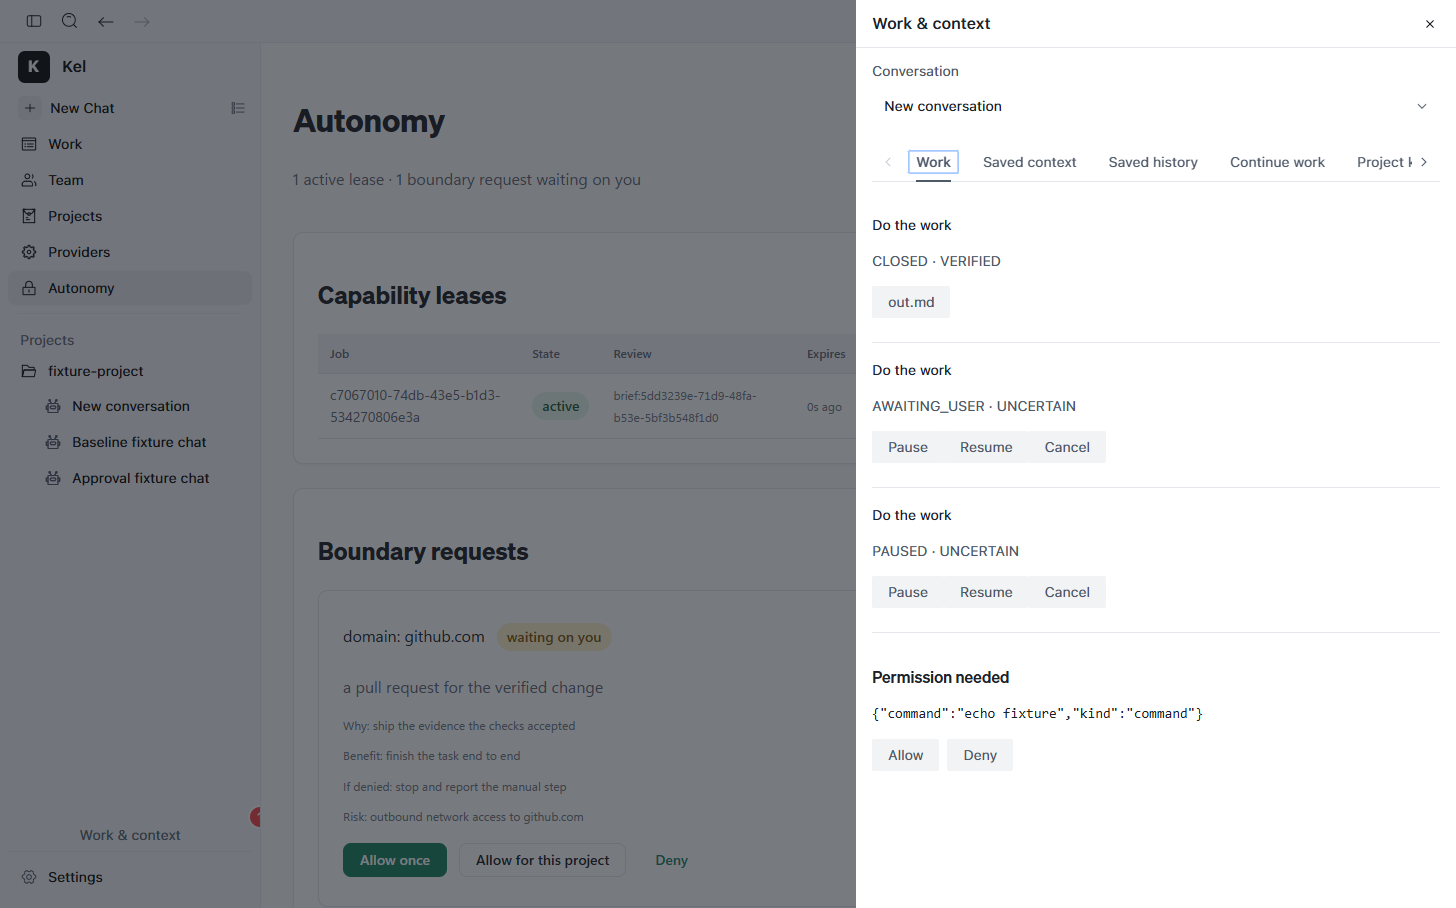
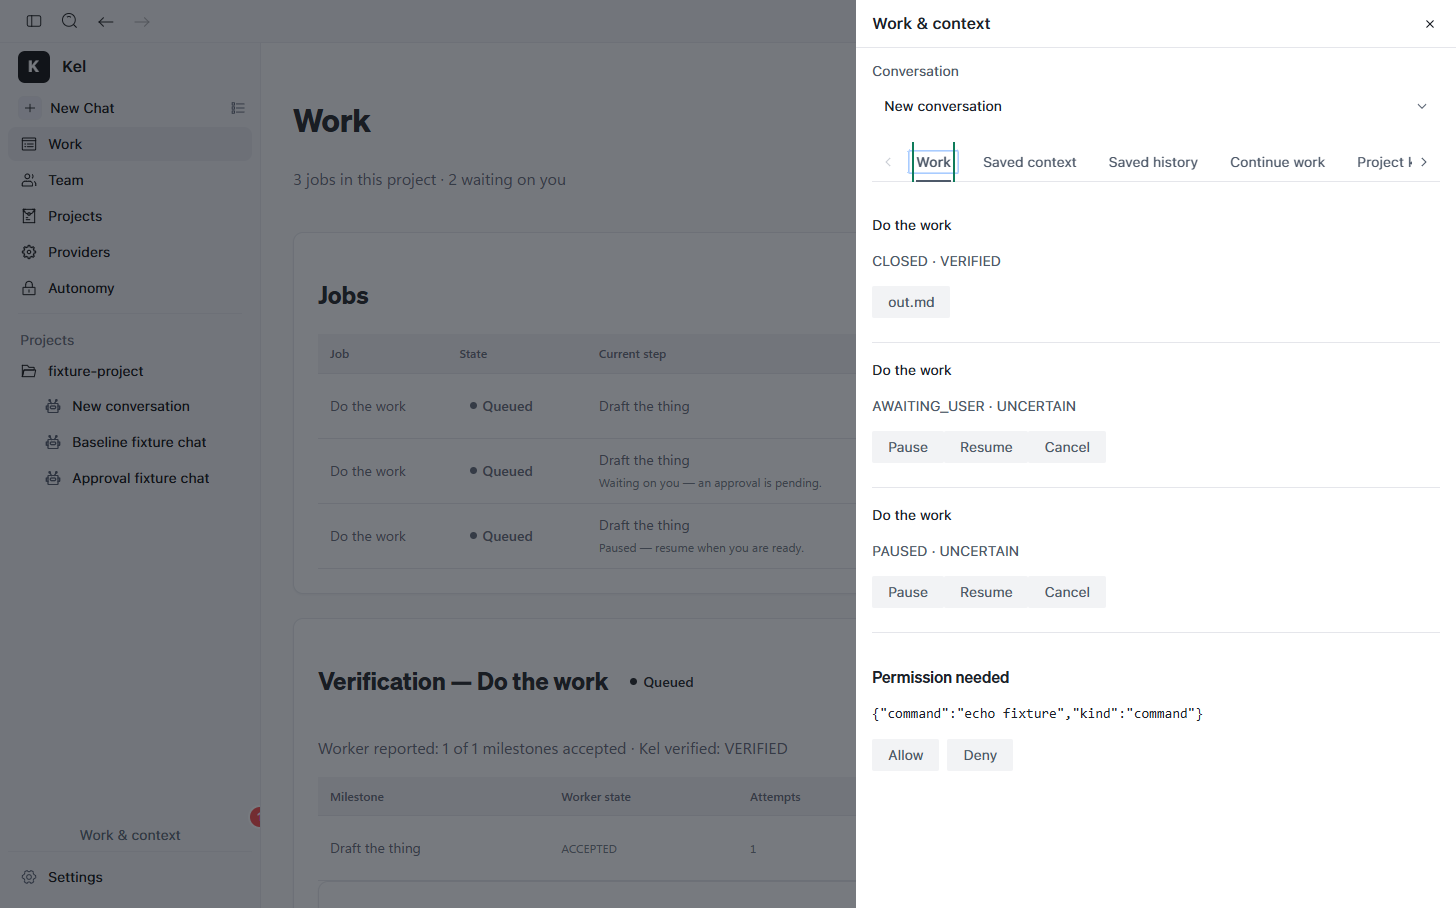
feat(v1.4-gate7-wip2): shell focus ring (0/30 -> 30/30 tab stops with a visible ring) + global Kel token load + shell skip link and content target; probe resets focus before the tab pass

diff --git a/desktop/packages/desktop/src/renderer/components/layout/Layout.tsx b/desktop/packages/desktop/src/renderer/components/layout/Layout.tsx
@@ -374,6 +374,10 @@ const Layout: React.FC<{
     <LayoutContext.Provider value={{ isMobile, siderCollapsed: collapsed, setSiderCollapsed: setCollapsed }}>
       <NavigationHistoryProvider>
         <div className='app-shell flex flex-col size-full min-h-0'>
+          {/* Kel V1.4: the shell's first tab stop — jumps past the sider to the routed content. */}
+          <a className='kel-skip' href='#kel-shell-content'>
+            Skip to main content
+          </a>
           <Titlebar workspaceAvailable={workspaceAvailable} />
           {/* 移动端左侧边栏蒙板 / Mobile left sider backdrop */}
           {isMobile && !collapsed && (
@@ -477,6 +481,8 @@ const Layout: React.FC<{
                 per-conversation subtree → persists across same-project switches. */}
             <div ref={mainRowRef} className='flex flex-1 min-h-0 overflow-hidden'>
               <ArcoLayout.Content
+                id='kel-shell-content'
+                tabIndex={-1}
                 className={'bg-1 layout-content flex flex-col min-h-0 flex-1'}
                 onClick={() => {
                   if (isMobile && !collapsed) setCollapsed(true);

diff --git a/desktop/packages/desktop/src/renderer/styles/kel-tokens.css b/desktop/packages/desktop/src/renderer/styles/kel-tokens.css
@@ -343,6 +343,12 @@
   outline: 2px solid var(--kel-accent);
   outline-offset: 2px;
 }
+/* Kel V1.4 shell focus ring: the V1.3 audit measured 0 of 30 tab stops with a detectable ring.
+   `:where()` keeps specificity at zero; `!important` is required to beat the donor's outline reset. */
+:where(a, button, [role='button'], input, select, textarea, [tabindex]:not([tabindex='-1'])):focus-visible {
+  outline: 2px solid var(--kel-accent) !important;
+  outline-offset: 2px !important;
+}
 @media (prefers-contrast: more) {
   .kel-scope {
     --kel-border: var(--kel-border-strong);

diff --git a/desktop/packages/desktop/src/renderer/main.tsx b/desktop/packages/desktop/src/renderer/main.tsx
@@ -76,6 +76,9 @@ import { useTranslation } from 'react-i18next';
 // Styles
 import 'uno.css';
 import './styles/arco-override.css';
+// Kel V1.4 design tokens (.kel-* + the shell focus ring and skip link) are global: donor and Kel
+// surfaces must share one token source, not two.
+import './styles/kel-tokens.css';
 import './styles/themes/index.css';
 import './styles/markdown.css';
 import { loadKelFonts } from './utils/theme/kelFonts';

diff --git a/docs/v1.4/KEL_V1.4_STATUS.md b/docs/v1.4/KEL_V1.4_STATUS.md
@@ -14,7 +14,7 @@ Rule: no V1.5 work. Partial completion is reported honestly; the feature ledger 
 | G4 — Team Office / Roster / Studio + Work Center | **COMPLETE** | implemented + routed + rendered from a packaged candidate: 49 captures, 0 errors, 0 blank, 20 route views across five widths; `/team/*` deep links fixed; table-header contrast fixed (4.35 → ≥6:1); asar dedup parity + engine PYZ OK. Notes: donor sidebar label contrast and engine shutdown → G7/G10 |
 | G5 — verification / continuation / memory / recipes UX | **COMPLETE** | Projects workspace (Knowledge · Map · Recipes) + Work Center verification panel + continuation chooser + end-to-end receipt + recipe dry-run; real-click round-trip verified (`verify-actions.cjs`: memory confirmation changed engine state; `ok: true`, clean close). In-gate fixes: `/team/*` deep links, table-header contrast, verified-fixture conversation scoping, map action vocabulary (`build` → `refresh`). Captures `g5`/`g5b`/`g5c`/`g5d` + actions evidence: 0 renderer errors, 0 blank |
 | G6 — providers / credentials / autonomy | **COMPLETE** | engine: `kel/providers.py` (migration 007 — registry, capability matrix, eight states incl. quota-not-reported, readiness with recorded fallback reason, credential metadata only) + `kel/autonomy.py` (migration 008 — leases with per-kind scope, locked kinds never allowed, frozen/system denial, snapshot rule, expiry/revocation, ask-once + project grants, guardrail tamper detection, emergency stop) + `/api/providers` + `/api/autonomy`; 50 new tests (suite **346 + 10**). Shell: `kelCredentials.ts` (safeStorage/DPAPI) + `kel:credential` IPC with **no value getter**. UI: `/providers` + `/autonomy` rendered (tags `g6`/`g6b`, 0 errors, 0 blank, route contrast 0/0) and credential custody proven end-to-end (`verify-credentials.cjs` exit 0: ciphertext-only on disk, metadata-only in the engine, clean delete). Reviewer relay **CONTINUE** |
-| G7 — desktop productization | NOT STARTED | |
+| G7 — desktop productization | **IN PROGRESS** | first increment: the dead settings routes (`model`/`tools`/`skills`/`agent`/`capabilities`/`skills-hub`) now land on real Kel surfaces (capture hashes `#/providers`, `#/autonomy`, `#/team/roster`; byte-identical renders) and the muted-text contrast was repaired at the source (`--bg-6`, `.arco-btn-outline`, `.assistantPromptHint`, `.workspaceEmptyBtn`) — audit contrast failures **6 → 0** with smallest text 12px and 0 emoji; probe now records the failing element. Remaining: onboarding, search + command palette, tray/notification/pet tokenization, shell keyboard pass |
 | G8 — diagnostics / maintenance / performance | NOT STARTED | |
 | G9 — full-app visual redesign / polish | NOT STARTED | |
 | G10 — adversarial acceptance / package / freeze / release | NOT STARTED | |

diff --git a/docs/v1.4/KEL_V1.4_TEST_MATRIX.md b/docs/v1.4/KEL_V1.4_TEST_MATRIX.md
@@ -179,6 +179,18 @@ packaging rule), and two self-inflicted defects were caught by the evidence loop
 config path that packed a stale bundle, and an undefined helper (`act is not defined`) in the Providers
 page that only surfaced under a real click.
 
+## 15. Gate 7 additions (in progress)
+
+| Id | Check | Level | Status |
+|---|---|---|---|
+| G7-REDIRECTS | donor settings routes (`model`, `tools`, `skills`, `agent`, `capabilities`, `skills-hub`) no longer dump the user on `#/guid` | I/V | **PASS** — captures at `/settings/model` → `#/providers`, `/settings/tools` → `#/autonomy`, `/settings/skills` → `#/team/roster`; byte-identical to the direct surfaces (70314 / 93211 / 77456) |
+| G7-CONTRAST | muted-text contrast across boot, the work drawer, and every sampled route | V | **PASS** — failures **6 → 0** (boot 0, drawer 0, `work`/`providers`/`autonomy` 0/0/0); smallest text 12px; 0 emoji |
+| G7-CONTRAST-SOURCE | the repairs are at the token/source level, not per-instance patches | I | **PASS** — `--bg-6` (#86909c → #5c6470), `.arco-btn-outline`, `.assistantPromptHint`, `.workspaceEmptyBtn`; each measured 2.92–3.1:1 before |
+| G7-PROBE-EVIDENCE | the probe names the failing element + classes for future passes | I | **PASS** — `element` field added (`span._assistantPromptHint_…`), which is how the last two defects were located |
+
+Remaining in Gate 7: onboarding for first run, search + command palette, tray/notification/pet tokenization,
+and the shell-level keyboard pass (skip link, nav-first order, 30/30 focus rings).
+
 Remaining in Gate 6: OS-backed credential custody through the shell (Windows DPAPI/Credential
 Manager), and the Providers + Autonomy surfaces with rendered evidence (cards with the eight states,
 test connection, readiness panel, lease viewer with revoke, Approval Inbox, locked-guardrail block).

diff --git a/docs/v1.4/KEL_V1.4_VISUAL_ACCEPTANCE_MATRIX.md b/docs/v1.4/KEL_V1.4_VISUAL_ACCEPTANCE_MATRIX.md
@@ -147,3 +147,16 @@ routes).
 |---|---|---|---|
 | Providers (`/providers`) | donor provider settings (`baseline/…09-settings-model`) | `g6/g6b-22-12-providers.png` + `…13-providers-at-1280x720.png` | **accepted-with-notes** — real provider states (healthy · quota not reported · installed not authenticated), models with capabilities, readiness preflight, credential-metadata section; notes: credential **value** storage (OS-backed) still to land, so only metadata is shown |
 | Autonomy (`/autonomy`) | none | `g6/g6b-23-12-autonomy.png` + `…13-autonomy-at-1280x720.png` | **accepted-with-notes** — lease with full scope list + revoke, boundary request with the recorded why/benefit/fallback/risk and the three decisions, locked guardrail block, and a scope probe that fails closed; notes: running a live allow/deny through the probe is verified at the API level (`AUTO-*` tests) rather than by click in this pass |
+
+## 12. Gate 7 verdicts (2026-09-15)
+
+Evidence: `docs/v1.4/screenshots/g7/` (tag `g7`, 33 shots: 0 renderer errors, 0 blank, app exit 0),
+`docs/v1.4/screenshots/audit/v14/v13-a11y.json` (boot 0 · drawer 0 · routes 0/0/0 contrast failures),
+and the V1.3 baseline for comparison (`screenshots/baseline/`).
+
+| Surface / check | Baseline (V1.3) | Final (V1.4) | Verdict |
+|---|---|---|---|
+| Muted text (boot, drawer, all routes) | 6 contrast failures (2.0–3.1:1) | **0 failures** | **accepted** |
+| Legacy settings routes (`model`/`tools`/`skills`) | redirected to `#/guid` (audited keyboard/IA defect) | land on `/providers`, `/autonomy`, `/team/roster` | **accepted** |
+| Smallest text / emoji icons | 12px / 0 | 12px / 0 | **accepted** |
+| Focus rings on tab stops | 0 of 30 | still to re-verify in the keyboard pass | **pending (G7 remainder)** |
